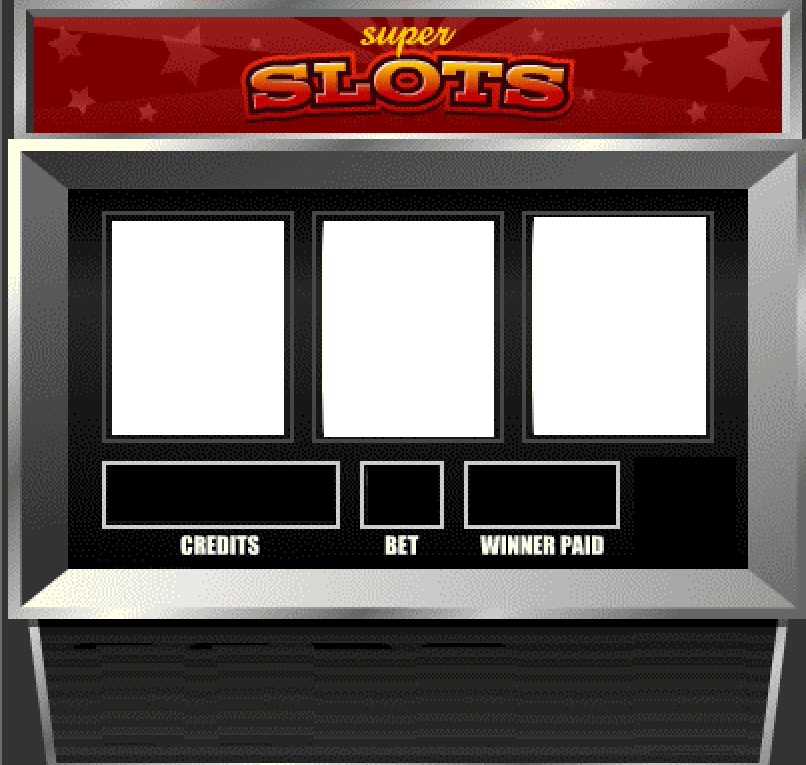
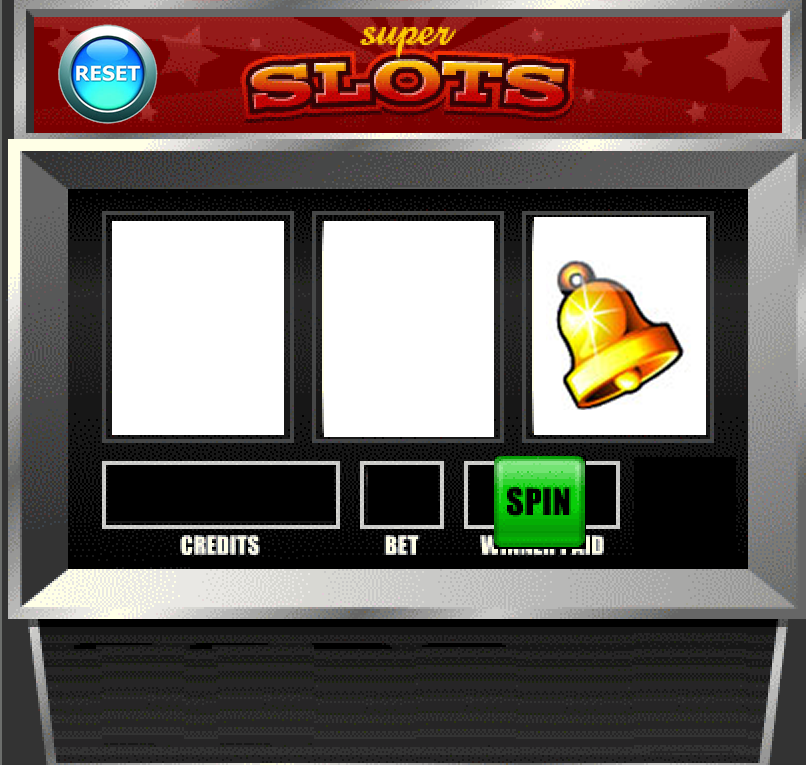
set up variables for text and labels

Changed region(s): [[0.6824, 0.3307, 0.8685, 0.5412], [0.5893, 0.5712, 0.7444, 0.7216], [0.062, 0.0301, 0.2171, 0.1804]]

diff --git a/js/main.js b/js/main.js
@@ -18,6 +18,40 @@ var bells = 0;
 var sevens = 0;
 var blanks = 0;
 
+var canvas;
+var stage;
+var betText;
+var creditText;
+var winningsText;
+var spin;
+var reset;
+var quit;
+var bg;
+var column1;
+var column2;
+var column3;
+
+
+/*set up canvas and stage*/
+
+
+/*Set coordinates for bet text output*/
+
+
+
+/*Set coordinates for credit text output*/
+
+
+
+/*Set coordinates for winnings text output*/
+
+
+
+
+/*set image variables*/
+
+
+
 /* Utility function to show Player Stats */
 function showPlayerStats()
 {
